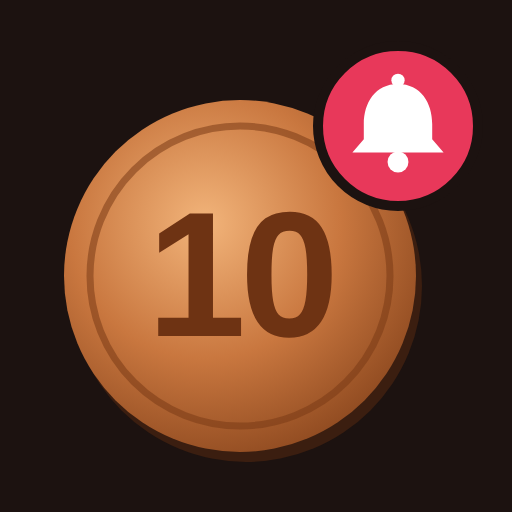
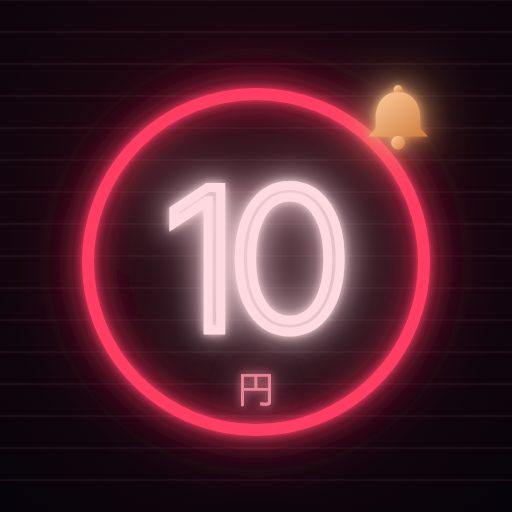
feat(sale): 10円ベルのアイコンを夜のネオン風に作り直す
Claude-Session: https://claude.ai/code/session_01BPH6iUhJxTmxecrg8dEkui

diff --git a/app/sale/page.tsx b/app/sale/page.tsx
@@ -53,7 +53,7 @@ export default async function SalePage() {
     <div className="flex flex-col gap-6">
       <section className="flex items-center gap-4">
         {/* eslint-disable-next-line @next/next/no-img-element */}
-        <img src="/sale/icon.svg" alt="" width={56} height={56} className="h-14 w-14 rounded-2xl" />
+        <img src="/sale/icon-rounded-256.png" alt="" width={56} height={56} className="h-14 w-14 rounded-2xl" />
         <div>
           <h1 className="text-xl font-bold">10円ベル</h1>
           <p className="text-sm text-neutral-400">FANZAで10円になった作品を見つけて、スマホに知らせます。</p>

diff --git a/app/sale/layout.tsx b/app/sale/layout.tsx
@@ -5,7 +5,7 @@ export const metadata: Metadata = {
   description: "FANZAで10円になった作品をまとめて表示し、見つかったらスマホに通知します。登録不要・無料。",
   manifest: "/sale/manifest.webmanifest",
   icons: {
-    icon: [{ url: "/sale/icon.svg", type: "image/svg+xml" }],
+    icon: [{ url: "/sale/icon-192.png", type: "image/png", sizes: "192x192" }],
     apple: [{ url: "/sale/apple-touch-icon.png", sizes: "180x180" }],
   },
   appleWebApp: {
